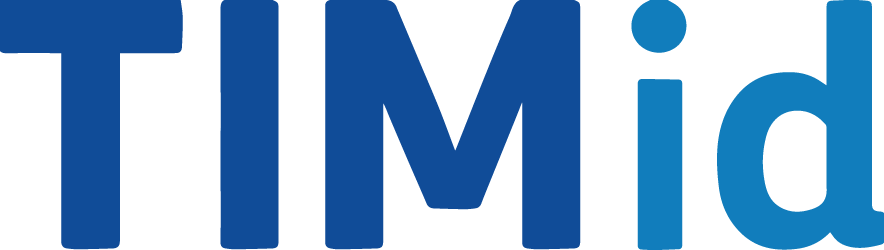
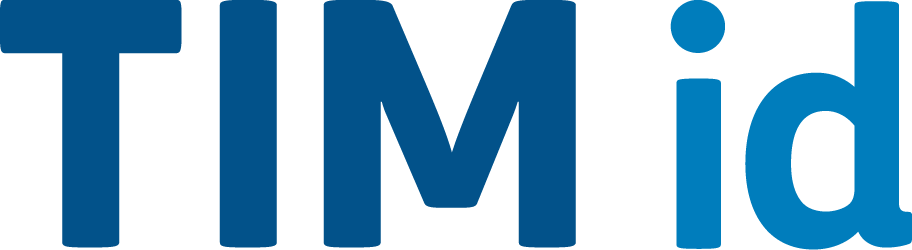
SPID SP ACCESS BUTTON v1.2

diff --git a/index.html b/index.html
@@ -30,7 +30,7 @@
                 <a href="http://www.spid.gov.it">Maggiori info</a>
             </li>
             <li class="spid-idp-support-link">
-                <a href="http://www.spid.gov.it/#spid-idp">Non hai SPID?</a>
+                <a href="http://www.spid.gov.it/#registrati">Non hai SPID?</a>
             </li>
         </ul>
     </div>
@@ -56,7 +56,7 @@
                 <a href="http://www.spid.gov.it">Maggiori info</a>
             </li>
             <li class="spid-idp-support-link">
-                <a href="http://www.spid.gov.it/#spid-idp">Non hai SPID?</a>
+                <a href="http://www.spid.gov.it/#registrati">Non hai SPID?</a>
             </li>
         </ul>
     </div>
@@ -82,7 +82,7 @@
                 <a href="http://www.spid.gov.it">Maggiori info</a>
             </li>
             <li class="spid-idp-support-link">
-                <a href="http://www.spid.gov.it/#spid-idp">Non hai SPID?</a>
+                <a href="http://www.spid.gov.it/#registrati">Non hai SPID?</a>
             </li>
         </ul>
     </div>
@@ -108,7 +108,7 @@
                 <a href="http://www.spid.gov.it">Maggiori info</a>
             </li>
             <li class="spid-idp-support-link">
-                <a href="http://www.spid.gov.it/#spid-idp">Non hai SPID?</a>
+                <a href="http://www.spid.gov.it/#registrati">Non hai SPID?</a>
             </li>
         </ul>
     </div>
@@ -142,7 +142,7 @@
                     <a href="http://www.spid.gov.it">Maggiori info</a>
                 </li>
                 <li class="spid-idp-support-link">
-                    <a href="http://www.spid.gov.it/#spid-idp">Non hai SPID?</a>
+                    <a href="http://www.spid.gov.it/#registrati">Non hai SPID?</a>
                 </li>
             </ul>
         </div>
@@ -173,7 +173,7 @@
                     <a href="http://www.spid.gov.it">Maggiori info</a>
                 </li>
                 <li class="spid-idp-support-link">
-                    <a href="http://www.spid.gov.it/#spid-idp">Non hai SPID?</a>
+                    <a href="http://www.spid.gov.it/#registrati">Non hai SPID?</a>
                 </li>
             </ul>
         </div>
@@ -204,7 +204,7 @@
                     <a href="http://www.spid.gov.it">Maggiori info</a>
                 </li>
                 <li class="spid-idp-support-link">
-                    <a href="http://www.spid.gov.it/#spid-idp">Non hai SPID?</a>
+                    <a href="http://www.spid.gov.it/#registrati">Non hai SPID?</a>
                 </li>
             </ul>
         </div>
@@ -235,7 +235,7 @@
                     <a href="http://www.spid.gov.it">Maggiori info</a>
                 </li>
                 <li class="spid-idp-support-link">
-                    <a href="http://www.spid.gov.it/#spid-idp">Non hai SPID?</a>
+                    <a href="http://www.spid.gov.it/#registrati">Non hai SPID?</a>
                 </li>
             </ul>
         </div>

diff --git a/CHANGELOG.md b/CHANGELOG.md
@@ -1,3 +1,7 @@
+# v1.2 (01/04/2016)
+
+- Modifica loghi POSTE ID e TIM ID
+
 # v1.1 (01/04/2016)
 
 - Correzione css per compatibilità bottone
